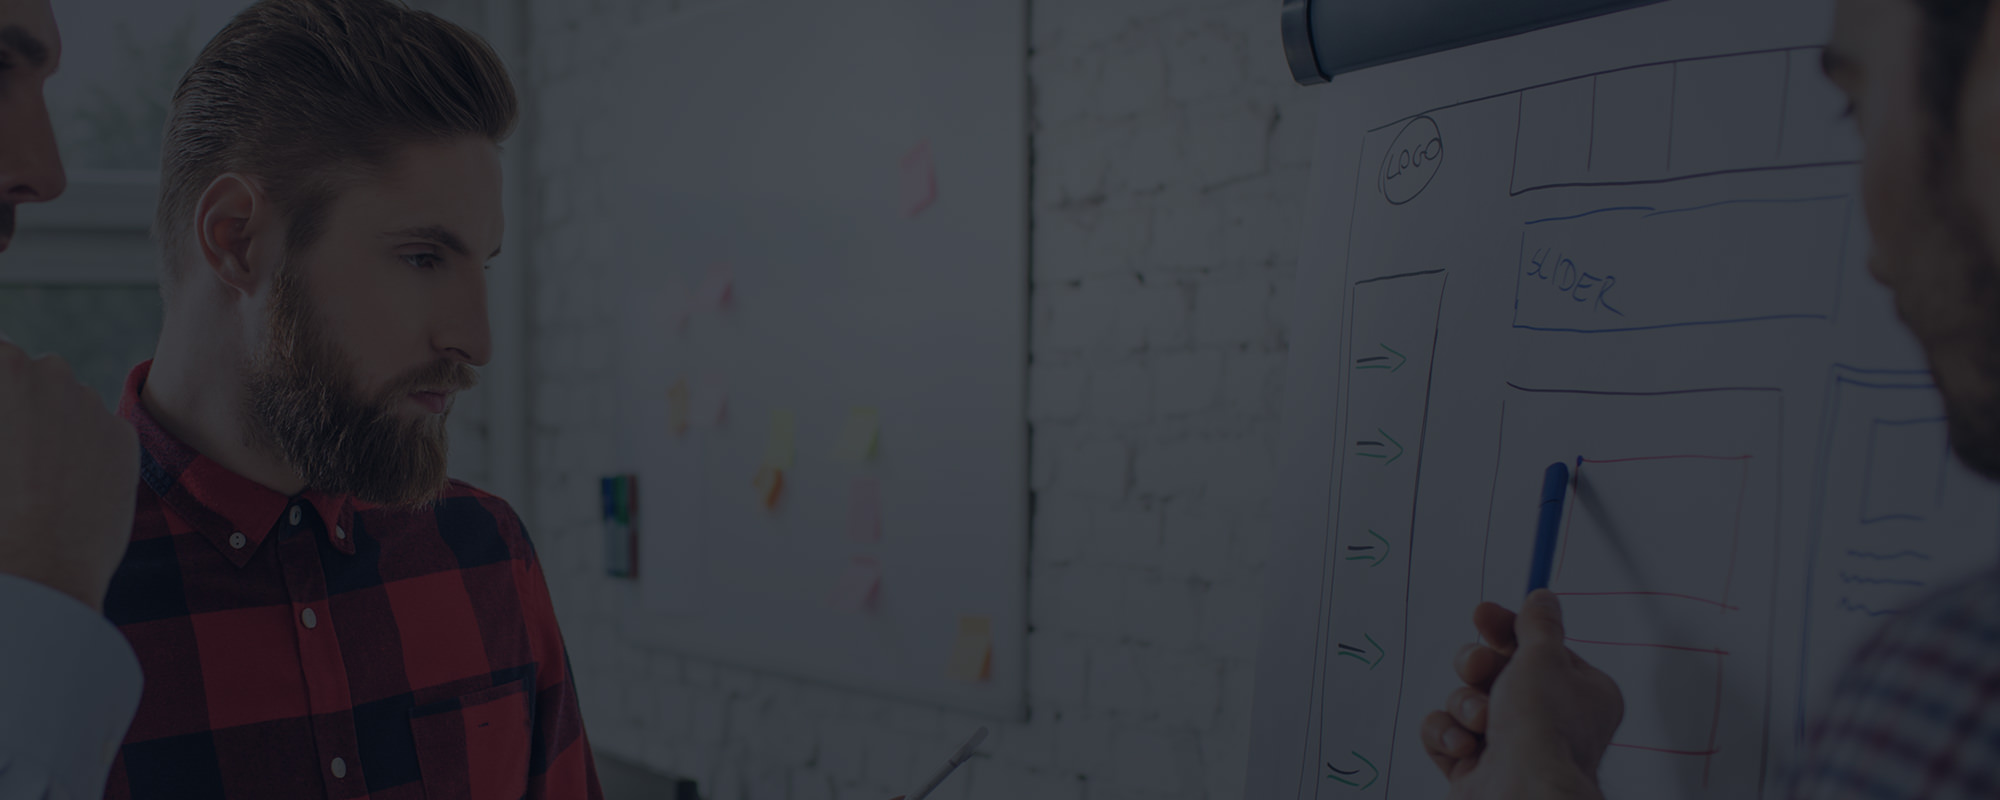
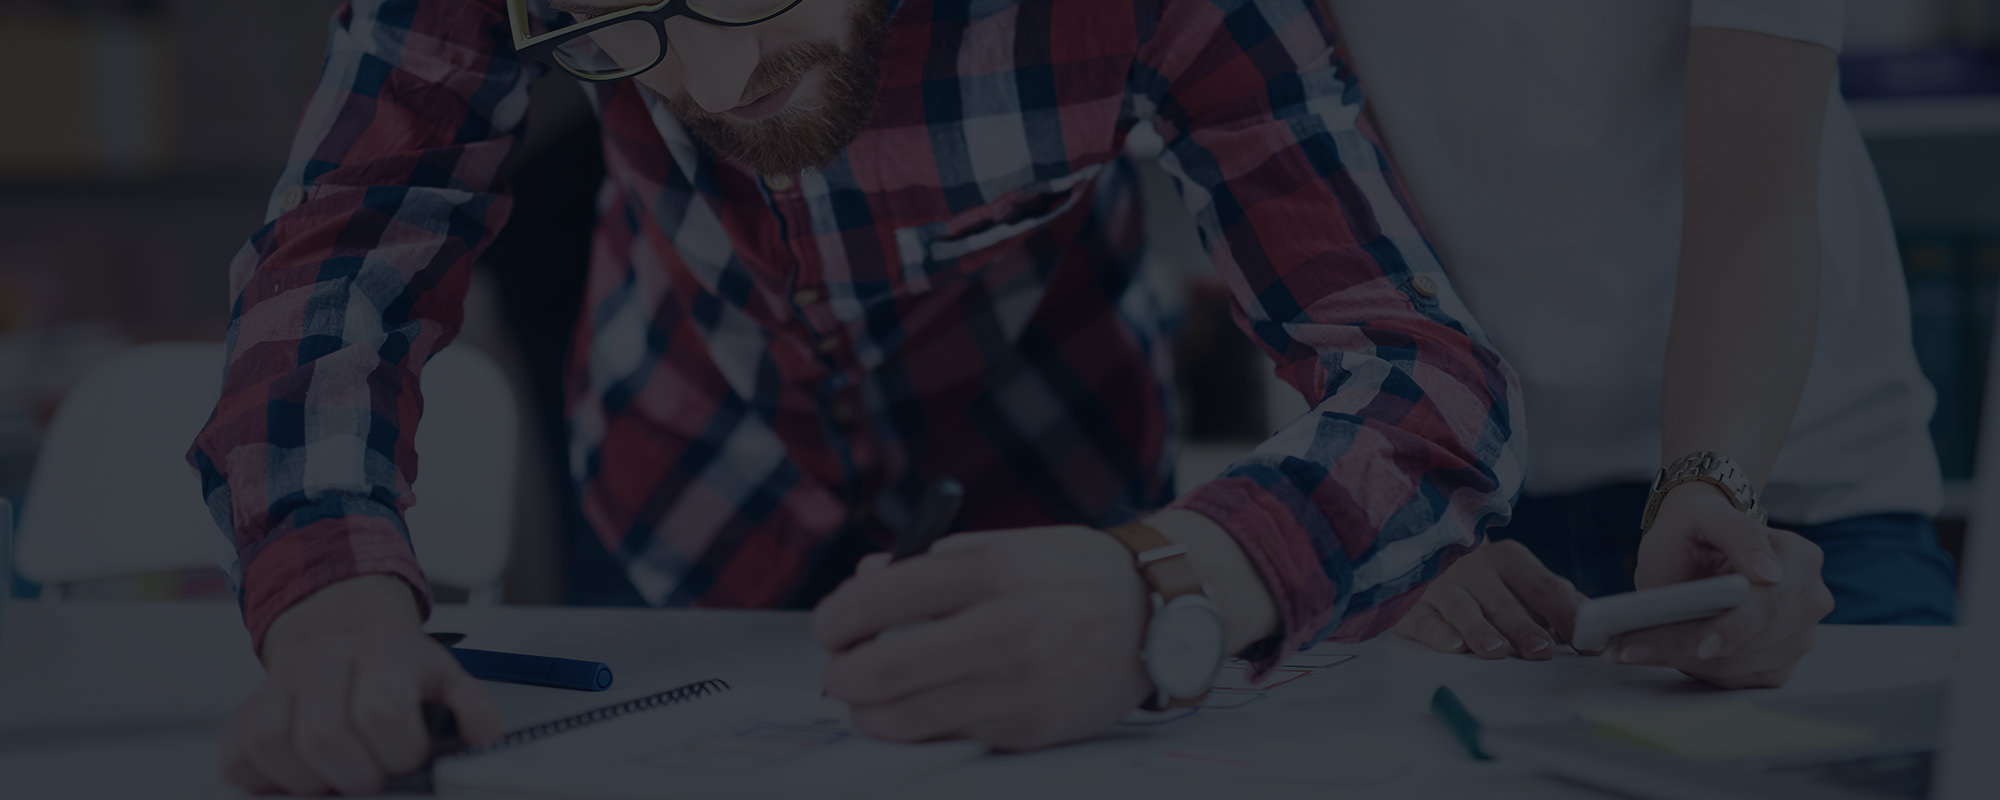
Completed Articles Page

diff --git a/src/Style/Articles.css b/src/Style/Articles.css
@@ -1,0 +1,83 @@
+/* Main Container */
+.articles-container {
+	position: relative;
+	background-color: #191c23;
+	width: 100%;
+	padding: 100px 0 50px 0;
+	margin-bottom: 146px;
+}
+
+/* Overlay */
+.single-article {
+	width: 60%;
+	margin: auto;
+	text-align: left;
+}
+
+.single-article a {
+	text-decoration: none;
+	color: white;
+}
+
+.single-article-img-container {
+	width: 100%;
+	position: relative;
+	display: flex;
+	justify-content: center;
+}
+
+.single-article-overlay {
+	position: absolute;
+	display: flex;
+	justify-content: center;
+	align-items: center;
+	margin: auto;
+	height: 100%;
+	background-color: rgba(250, 34, 90, 0.8);
+	transition: all 0.3s;
+	font-family: "Source Sans Pro", sans-serif;
+	line-height: 30px;
+	width: 0;
+	font-size: 0;
+	overflow: hidden;
+	font-weight: normal;
+}
+
+.single-article a:hover .single-article-overlay {
+	width: 100%;
+	font-size: 29px;
+}
+
+/* Info */
+.single-article img {
+	object-fit: contain;
+	max-width: 100%;
+}
+
+.single-article-info {
+	margin: 35px 0 90px 0;
+}
+
+.single-article h2 {
+	color: #fa225b;
+	font-family: "Montserrat", sans-serif;
+	font-size: 28px;
+	line-height: 40px;
+	font-weight: 600;
+	margin-bottom: 10px;
+	display: inline-block;
+	transition: all 0.3s;
+}
+
+.single-article h2:hover {
+	color: white;
+	cursor: pointer;
+}
+
+.single-article p {
+	color: #7a89ab;
+	font-family: "Source Sans Pro", sans-serif;
+	font-size: 16px;
+	line-height: 30px;
+	font-weight: normal;
+}

diff --git a/src/data/blog.js b/src/data/blog.js
@@ -6,24 +6,28 @@ import three from "../images/Blog/3.jpg";
 const blog = [
 	{
 		image: three,
+		link: "/the-humble-wooden-desk",
 		title: "The Humble Wooden Desk",
 		metaDescription: `What's to come next? Lorem ipsum dolor sit amet, consectetur adipiscing elit, sed do eiusmod tempor incididunt ut labore et dolore magna aliqua. Ut enim ad minim veniam,`,
 		dateCreated: "1:31 PM - 28/11/2020",
 	},
 	{
 		image: two,
+		link: "/what-next-of-the-app-store",
 		title: "What’s Next of the App Store?",
 		metaDescription: `What's to come next? Lorem ipsum dolor sit amet, consectetur adipiscing elit, sed do eiusmod tempor incididunt ut labore et dolore magna aliqua. Ut enim ad minim veniam,`,
 		dateCreated: "1:28 PM - 28/11/2020",
 	},
 	{
 		image: one,
+		link: "/live-the-design-process",
 		title: "Live The Design Process",
 		metaDescription: `What's to come next? Lorem ipsum dolor sit amet, consectetur adipiscing elit, sed do eiusmod tempor incididunt ut labore et dolore magna aliqua. Ut enim ad minim veniam,`,
 		dateCreated: "1:22 PM - 28/11/2020",
 	},
 	{
 		image: three,
+		link: "/the-humble-wooden-desk",
 		title: "The Humble Wooden Desk",
 		metaDescription: `What's to come next? Lorem ipsum dolor sit amet, consectetur adipiscing elit, sed do eiusmod tempor incididunt ut labore et dolore magna aliqua. Ut enim ad minim veniam,`,
 		dateCreated: "1:31 PM - 28/11/2020",

diff --git a/src/pages/Articles.jsx b/src/pages/Articles.jsx
@@ -1,0 +1,58 @@
+//Init
+import React from "react";
+import { Link } from "react-router-dom";
+
+//Importing Data
+import blog from "../data/blog";
+
+//importing Components
+import Nav from "../components/Nav";
+import HeaderGlobal from "../components/HeaderGlobal";
+import Footer from "../components/Footer";
+
+//Style
+import "../Style/Articles.css";
+
+//Article Page Component
+function Articles() {
+	return (
+		<React.Fragment>
+			<Nav />
+			<HeaderGlobal
+				title="Web Design Articles"
+				quote="WEB DESIGN & DEVELOPMENT ARTICLES BY YOUSUF KALIM"
+			/>
+
+			{/* Articles */}
+
+			<div className="articles-container">
+				{blog.map((article) => {
+					return (
+						<div className="single-article">
+							<Link to={article.link}>
+								<div className="single-article-img-container">
+									<div className="single-article-overlay">
+										{article.title}
+									</div>
+									<img
+										src={article.image}
+										alt={article.title}
+									/>
+								</div>
+							</Link>
+							<div className="single-article-info">
+								<h2>{article.title}</h2>
+								<p>{article.metaDescription}</p>
+							</div>
+						</div>
+					);
+				})}
+			</div>
+
+			<Footer />
+		</React.Fragment>
+	);
+}
+
+//Export
+export default Articles;

diff --git a/src/components/ExpertAdvice.jsx b/src/components/ExpertAdvice.jsx
@@ -1,5 +1,6 @@
 //Init
 import React from "react";
+import { Link } from "react-router-dom";
 
 //Article Data
 import blog from "../data/blog";
@@ -8,15 +9,15 @@ import blog from "../data/blog";
 import "../Style/ExpertAdvice.css";
 
 //Single Article Container
-function Article({ image, title, metaDescription }) {
+function Article({ link, image, title, metaDescription }) {
 	return (
 		<div className="article">
-			<a href="http://blog.kalim.pk/">
+			<Link to={link}>
 				<div className="article-img-container">
 					<div className="article-overlay">{title}</div>
 					<img src={image} alt="Article Thumbnail" />
 				</div>
-			</a>
+			</Link>
 			<div className="article-info">
 				<h2>{title}</h2>
 				<p>{metaDescription}</p>
@@ -33,6 +34,7 @@ function ExpertAdvice() {
 				return (
 					<Article
 						key={index}
+						link={article.link}
 						image={article.image}
 						title={article.title}
 						metaDescription={article.metaDescription}

diff --git a/src/routes/PageRoutes.js b/src/routes/PageRoutes.js
@@ -5,6 +5,7 @@ import { Switch, Route, Redirect } from "react-router-dom";
 //Pages
 import Home from "../pages/Home";
 import Recent from "../pages/Recent";
+import Articles from "../pages/Articles";
 
 //Component
 function PageRoutes() {
@@ -12,6 +13,7 @@ function PageRoutes() {
 		<Switch>
 			<Route exact path="/" component={Home} />
 			<Route exact path="/portfolio" component={Recent} />
+			<Route exact path="/articles" component={Articles} />
 			{/* <Redirect to="/" /> */}
 		</Switch>
 	);

diff --git a/src/components/HeaderGlobal.jsx b/src/components/HeaderGlobal.jsx
@@ -5,10 +5,14 @@ import React from "react";
 import "../Style/HeaderGlobal.css";
 
 //Component
-function HeaderGlobal({ title, quote }) {
+function HeaderGlobal({ inPortfolio, title, quote }) {
 	return (
 		<header id="header-global">
-			<div className="header-global-container">
+			<div
+				className={`header-global-container ${
+					inPortfolio && "inPortfolio"
+				}`}
+			>
 				<div className="header-global-title">
 					<span>{title}</span>
 				</div>

diff --git a/src/components/Hamburger.jsx b/src/components/Hamburger.jsx
@@ -14,7 +14,7 @@ function Hamburger({ clicked }) {
 				<NavLink exact to="/portfolio" activeClassName="active_class">
 					Portfolio
 				</NavLink>
-				<NavLink exact to="/Articles" activeClassName="active_class">
+				<NavLink exact to="/articles" activeClassName="active_class">
 					Articles
 				</NavLink>
 				<NavLink exact to="/talk" activeClassName="active_class">

diff --git a/src/pages/Recent.jsx b/src/pages/Recent.jsx
@@ -17,7 +17,11 @@ function Recent() {
 	return (
 		<React.Fragment>
 			<Nav />
-			<HeaderGlobal title={header.title} quote={header.quote} />
+			<HeaderGlobal
+				inPortfolio={true}
+				title={header.title}
+				quote={header.quote}
+			/>
 
 			<InspiredHeading />
 

diff --git a/src/Style/HeaderGlobal.css b/src/Style/HeaderGlobal.css
@@ -23,6 +23,10 @@
 	align-items: center;
 }
 
+.inPortfolio {
+	background-image: url("../images/Recent/portfoliobg.jpg") !important;
+}
+
 .header-global-title {
 	font-family: "Montserrat", sans-serif;
 	font-weight: 600;
